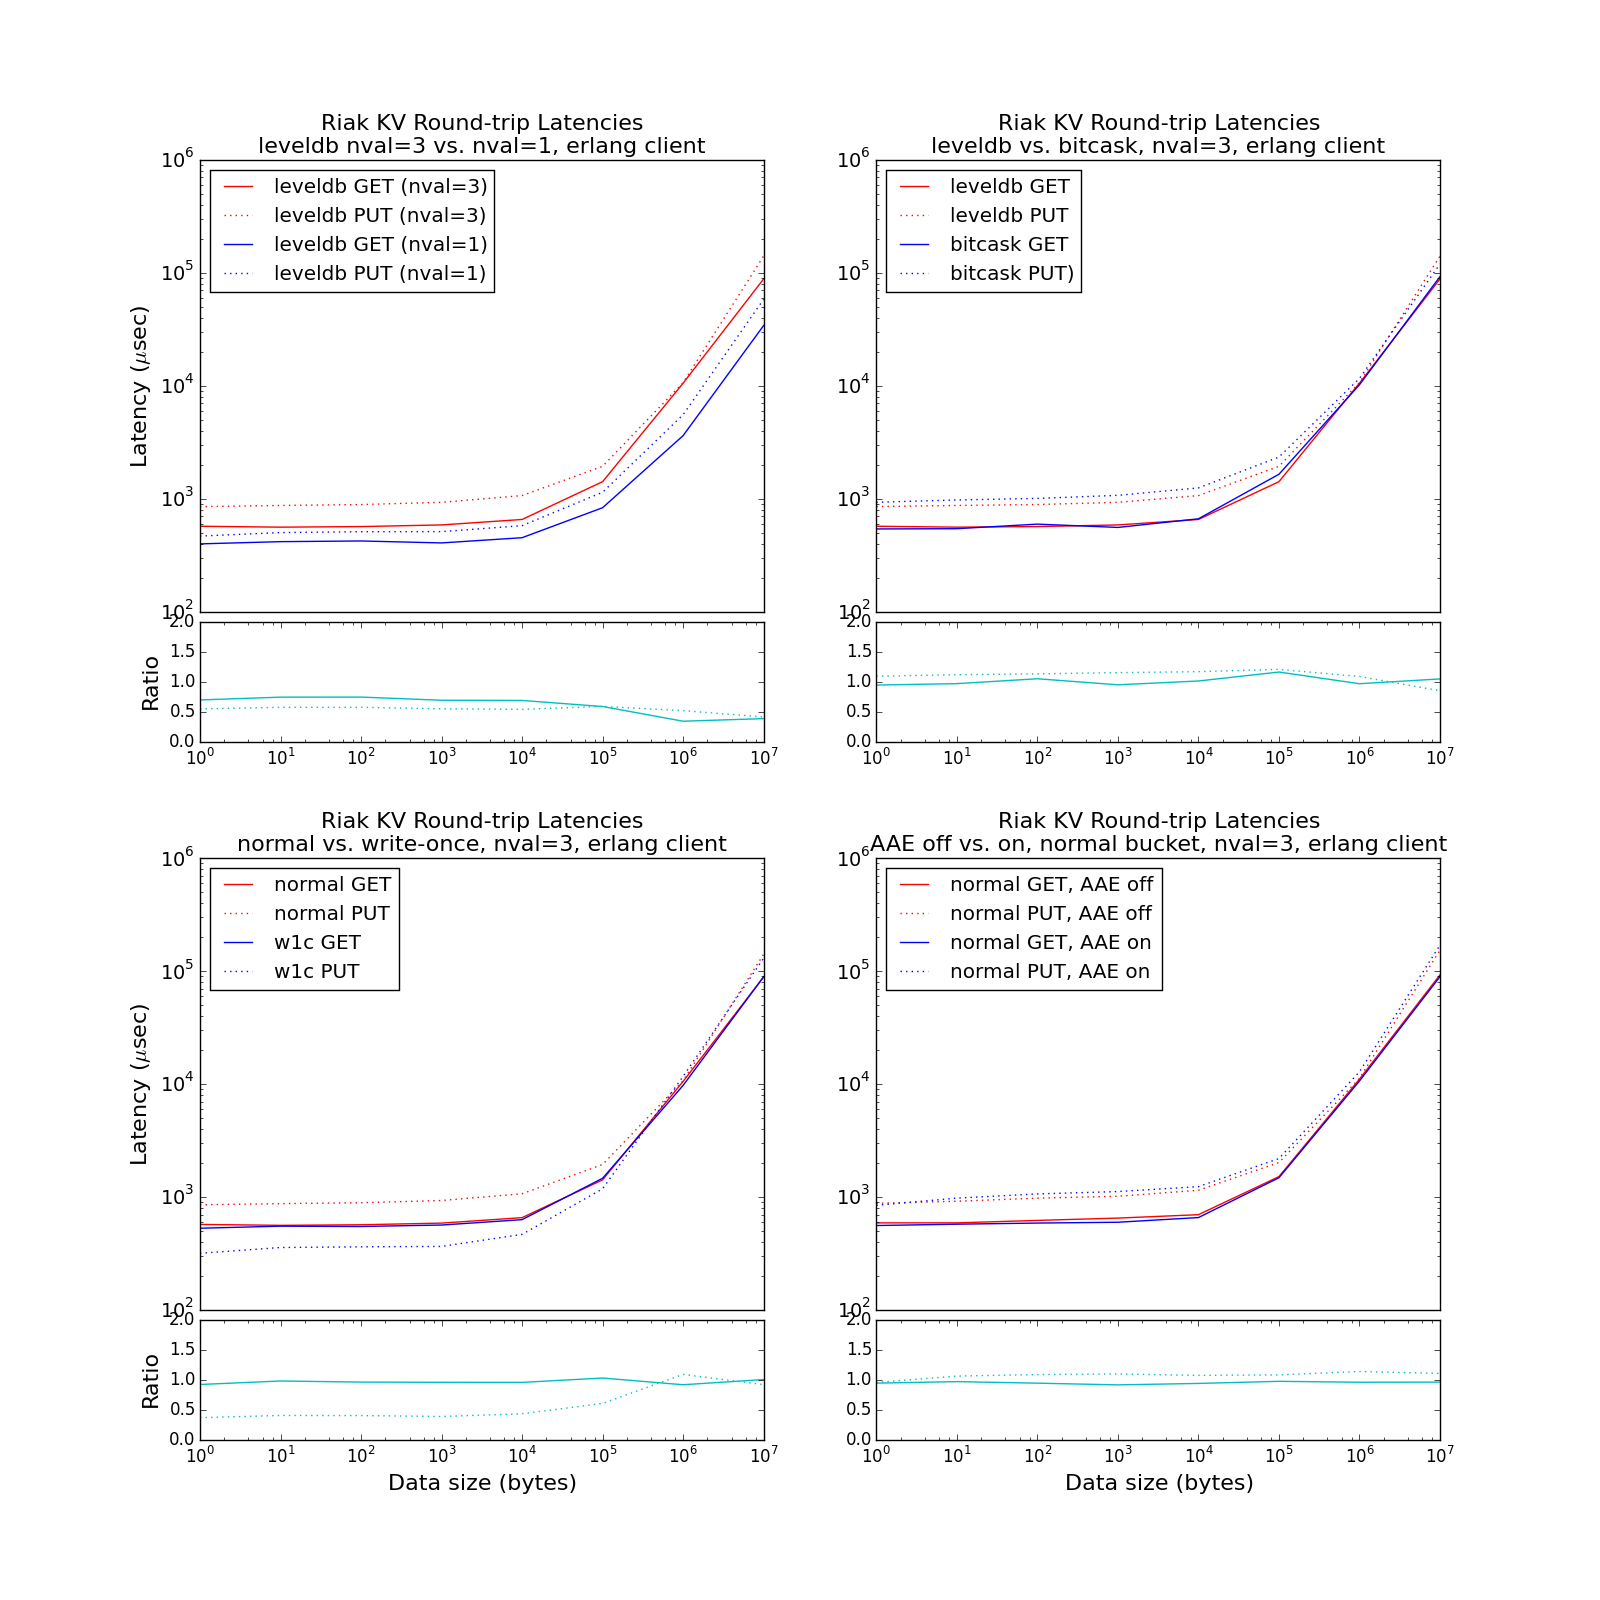
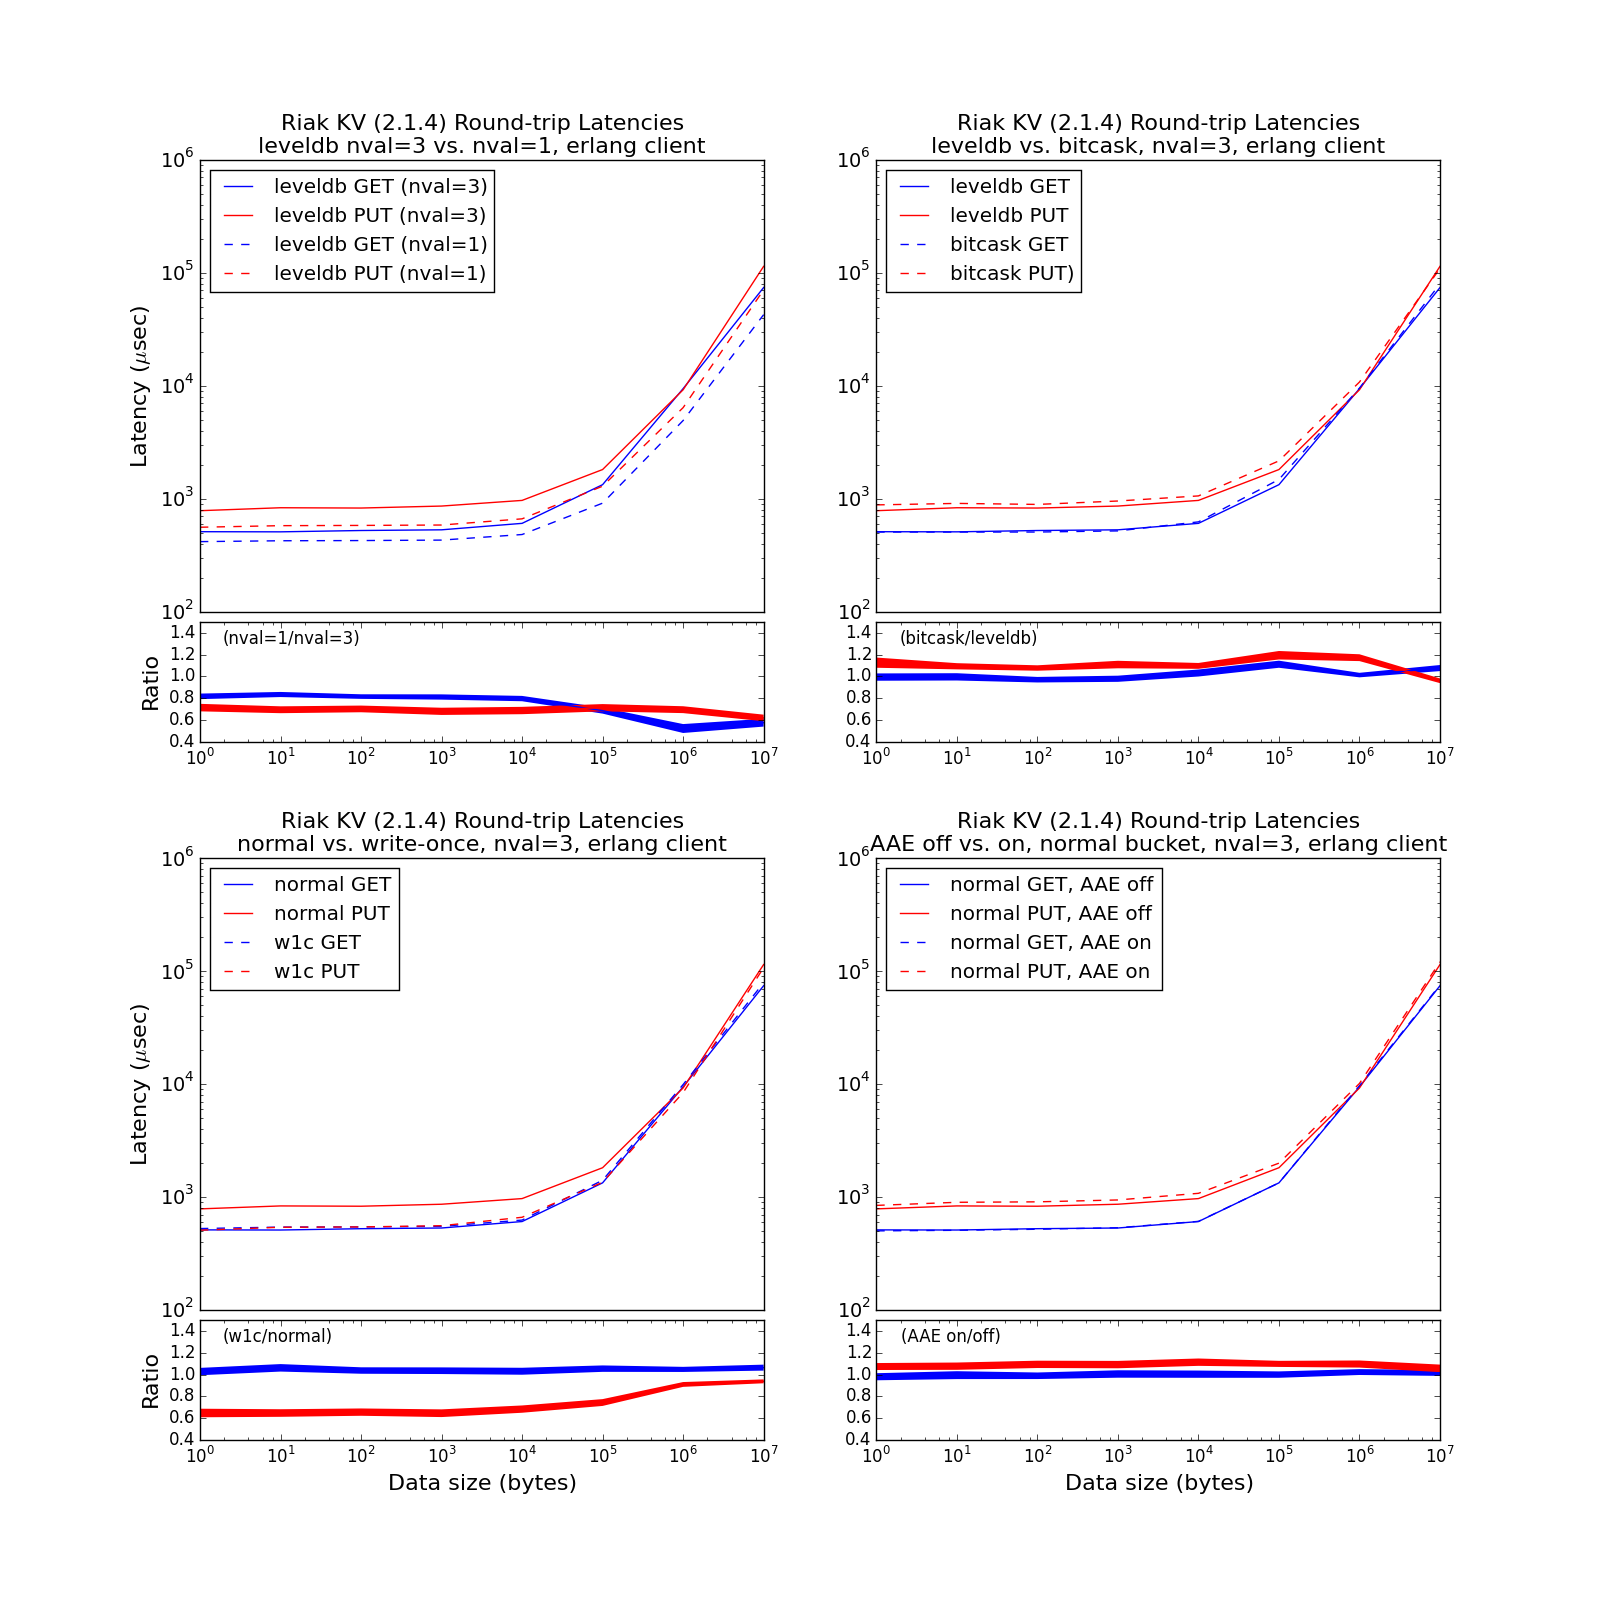
Updating KV latency image for 2.1.4

diff --git a/python_scripts/kvlatency_cmp.py b/python_scripts/kvlatency_cmp.py
@@ -1,8 +1,15 @@
 import numpy as np
+#from matplotlib import rc
+#rc('text', usetex=True)
+#rc('text.latex', preamble='\usepackage{color}')
 import matplotlib.pyplot as plt
 import os
 import profiler_util as pu
 from mpl_toolkits.axes_grid1 import make_axes_locatable
+import sys
+
+getcolor='b'
+putcolor='r'
 
 def getLine(label, content):
   for line in content:
@@ -35,40 +42,56 @@ def parseProfilerOutput(fileName, labelDict):
 
 def getProfilerOutput(fileName):
   d = pu.parseProfilerOutput(fileName, {})
+
   gbytes = []
   pbytes = []
+
   getus = []
+  getus_std = []
+
   putus = []
+  putus_std = []
+
   for key in d.keys():
     s = key.split('_')
     if s[0] == 'put':
       pbytes.append(float(s[1]))
       ntrial = int(s[2])
       putus.append(d[key]['usec']/ntrial)
+      putus_std.append(d[key]['usecstd']/ntrial)
     elif s[0] == 'get':
       gbytes.append(float(s[1]))
       ntrial = int(s[2])
       getus.append(d[key]['usec']/ntrial)
+      getus_std.append(d[key]['usecstd']/ntrial)
 
   npt = np.size(pbytes)
   btes = np.ndarray(npt)
   puts = np.ndarray(npt)
   gets = np.ndarray(npt)
+  puts_std = np.ndarray(npt)
+  gets_std = np.ndarray(npt)
   
   ps = np.argsort(pbytes)
   gs = np.argsort(gbytes)
+
   for i in range(0,np.size(ps)):
     btes[i] = pbytes[ps[i]]
     puts[i] = putus[ps[i]]
     gets[i] = getus[gs[i]]
+    puts_std[i] = putus_std[ps[i]]
+    gets_std[i] = getus_std[gs[i]]
+    if i==0:
+      print 'mean = ' + str(puts[i]) + ' std = ' + str(puts_std[i])
+      print 'mean = ' + str(puts[i]) + ' std = ' + str(puts_std[i])
+      
+  return btes,puts,puts_std,gets,gets_std
 
-  return btes,puts,gets
-
-def makePlot(ax, bytes, puts, gets, color, xlabel=True, ylabel=True):
-  cstr = str(color) + '-'
+def makePlot(ax, bytes, puts, gets, ls, xlabel=True, ylabel=True):
+  cstr = getcolor + ls
   plt.plot(bytes,gets,cstr)
   plt.hold(True)
-  cstr = str(color) + ':'
+  cstr = putcolor + ls
   plt.plot(bytes,puts,cstr)
   ax.set_xscale('log')
   ax.set_yscale('log')
@@ -78,86 +101,135 @@ def makePlot(ax, bytes, puts, gets, color, xlabel=True, ylabel=True):
   if ylabel:
     plt.ylabel('Latency ($\mu$sec)',fontsize=16)
 
-def makeDiffPlot(ax, bytes, p1, g1, p2, g2, color, xlabel=True, ylabel=True):
-  puts = 100*(p2-p1)/p1
-  gets = 100*(g2-g1)/g1
+def makeDiffPlot(ax, bytes, p1, p1_std, g1, g1_std, p2, p2_std, g2, g2_std, ls, xlabel=True, ylabel=True, rat=None):
 
   puts = p2/p1
+  puts_std = pu.getRatioSigma(p1, p1_std, p2, p2_std)
   gets = g2/g1
+  gets_std = pu.getRatioSigma(g1, g1_std, g2, g2_std)
   
-  cstr = str(color) + '-'
+  cstr = getcolor + ls
   ax.plot(bytes,gets,cstr)
+  #  ax.plot(bytes,gets-gets_std,cstr)
   plt.hold(True)
-  cstr = str(color) + ':'
+  #  ax.plot(bytes,gets+gets_std,cstr)
+    
+  cstr = putcolor + ls
   plt.plot(bytes,puts,cstr)
+  #  plt.plot(bytes,puts-puts_std,cstr)
+  #  plt.plot(bytes,puts+puts_std,cstr)
 
   ax.set_xscale('log')
-#  ax.set_ylim([-100, 100])
-  ax.set_ylim([0, 2])
+  ax.set_ylim([0.4, 1.5])
 
+  grey=0.75
+  ax.fill_between(bytes, gets-gets_std, gets+gets_std, color=getcolor,edgecolor='none')
+  ax.fill_between(bytes, puts-puts_std, puts+puts_std, color=putcolor,edgecolor='none')
+  
   if xlabel:
     plt.xlabel('Data size (bytes)',fontsize=16)
   if ylabel:
     plt.ylabel('Ratio',fontsize=16)
 
+  if rat != None:
+    plt.text(2.0, 1.3, '(' + rat + ')')
+
 def retick(ax, size):
   ax.set_xticklabels(ax.get_xticklabels(), fontsize=size)
   ax.set_yticklabels(ax.get_yticklabels(), fontsize=size)
 
-def makePanel(x, p1, g1, p2, g2, sp, leglabels, title, doX, doY):
+def makePanel(x, p1, p1_std, g1, g1_std, p2, p2_std, g2, g2_std, sp, leglabels, title, doX, doY, rat):
   ax = fig.add_subplot(2,2,sp)
   retick(ax, 14)
 
-  makePlot(ax, x, p1, g1, 'r', doX, doY)
-  makePlot(ax, x, p2, g2, 'b', doX, doY)
+  makePlot(ax, x, p1, g1, '-', doX, doY)
+  makePlot(ax, x, p2, g2, '--', doX, doY)
   
   plt.legend(leglabels, loc='upper left')
   plt.title(title, fontsize=16)
 
   divider = make_axes_locatable(ax)
   axdiff  = divider.append_axes("bottom", 1.2, pad=0.1, sharex=ax)
-  makeDiffPlot(axdiff, x, p1, g1, p2, g2, 'c', doX, doY)
+  makeDiffPlot(axdiff, x, p1, p1_std, g1, g1_std, p2, p2_std, g2, g2_std, '-', doX, doY, rat)
 
   return ax
 
+def getOptArgs(args, name, defval):
+    d = {}
+    for arg in args:
+      if '=' in arg:
+        splargs = arg.split('=')
+        d[splargs[0]] = splargs[1]
+
+
+    if name in d.keys():
+      return d[name]
+    else:
+      return defval
+
 dataDir = str(os.environ['RIAK_TEST_BASE']) + '/data/'
 
-filesn1 = pu.getCmd('ls ' + dataDir + '/kvlatency_nval1_iter*.txt').replace('\n', ' ')
-bytes1, puts1, gets1 = getProfilerOutput(filesn1)
+usersuffix = getOptArgs(sys.argv, 'suffix', '')
+if usersuffix != '':
+  suffix = usersuffix + '_'
+else:
+  suffix = ''
 
-filesn3 = pu.getCmd('ls ' + dataDir + '/kvlatency_nval3_iter*.txt').replace('\n', ' ')
-bytes3, puts3, gets3 = getProfilerOutput(filesn3)
+print 'Using suffix = ' + str(suffix)
 
-filesw1c = pu.getCmd('ls ' + dataDir + '/kvlatency_nval3_w1c_iter*.txt').replace('\n', ' ')
-bytesw1c3, putsw1c3, getsw1c3 = getProfilerOutput(filesw1c)
+filesn1 = pu.getCmd('ls ' + dataDir + '/kvlatency_nval1_' + suffix + 'iter*.txt').replace('\n', ' ')
+bytes1, puts1, puts1_std, gets1, gets1_std = getProfilerOutput(filesn1)
 
-filesbc = pu.getCmd('ls ' + dataDir + '/kvlatency_nval3_bitcask_iter*.txt').replace('\n', ' ')
-bytesb3, putsb3, getsb3 = getProfilerOutput(filesbc)
+filesn3 = pu.getCmd('ls ' + dataDir + '/kvlatency_nval3_' + suffix + 'iter*.txt').replace('\n', ' ')
+bytes3, puts3, puts3_std, gets3, gets3_std = getProfilerOutput(filesn3)
 
-filesoff = pu.getCmd('ls ' + dataDir + '/kvlatency_nval3_aae_passive_iter*.txt').replace('\n', ' ')
-bytesaaeoff, putsaaeoff, getsaaeoff = getProfilerOutput(filesoff)
+filesw1c = pu.getCmd('ls ' + dataDir + '/kvlatency_nval3_w1c_' + suffix + 'iter*.txt').replace('\n', ' ')
+bytesw1c3, putsw1c3, putsw1c3_std, getsw1c3, getsw1c3_std = getProfilerOutput(filesw1c)
 
-fileson  = pu.getCmd('ls ' + dataDir + '/kvlatency_nval3_aae_active_iter*.txt').replace('\n', ' ')
-bytesaaeon,  putsaaeon,  getsaaeon  = getProfilerOutput(fileson)
+filesbc = pu.getCmd('ls ' + dataDir + '/kvlatency_nval3_bitcask_' + suffix + 'iter*.txt').replace('\n', ' ')
+bytesb3, putsb3, putsb3_std, getsb3, getsb3_std = getProfilerOutput(filesbc)
+
+#filesoff = pu.getCmd('ls ' + dataDir + '/kvlatency_nval3_aae_passive_' + suffix + 'iter*.txt').replace('\n', ' ')
+#bytesaaeoff, putsaaeoff, putsaaeoff_std, getsaaeoff, getsaaeoff_std = getProfilerOutput(filesoff)
+
+fileson  = pu.getCmd('ls ' + dataDir + '/kvlatency_nval3_aae_active_' + suffix + 'iter*.txt').replace('\n', ' ')
+bytesaaeon,  putsaaeon, putsaaeon_std, getsaaeon, getsaaeon_std  = getProfilerOutput(fileson)
 
 fig = plt.figure(figsize=(16,16))
 fig.set_facecolor('white');
 
+print 'Here 0'
+
 leg = ['leveldb GET (nval=3)', 'leveldb PUT (nval=3)', 'leveldb GET (nval=1)', 'leveldb PUT (nval=1)']
-title = 'Riak KV Round-trip Latencies\nleveldb nval=3 vs. nval=1, erlang client'
-ax = makePanel(bytes1, puts3, gets3, puts1, gets1, 1, leg, title, False, True)
-  
+if suffix != '':
+  suffixstr=' (' + usersuffix + ') '
+else:
+  suffixstr=' '
+
+title = 'Riak KV' + suffixstr + 'Round-trip Latencies\nleveldb nval=3 vs. nval=1, erlang client'
+rat='nval=1/nval=3'
+ax = makePanel(bytes1, puts3, puts3_std, gets3, gets3_std, puts1, puts1_std, gets1, gets1_std, 1, leg, title, False, True, rat)
+
+print 'Here 1'
+
 leg = ['leveldb GET', 'leveldb PUT', 'bitcask GET', 'bitcask PUT)']
-title = 'Riak KV Round-trip Latencies\nleveldb vs. bitcask, nval=3, erlang client'
-ax = makePanel(bytes3, puts3, gets3, putsb3, getsb3, 2, leg, title, False, False)
-    
+title = 'Riak KV' + suffixstr + 'Round-trip Latencies\nleveldb vs. bitcask, nval=3, erlang client'
+rat='bitcask/leveldb'
+ax = makePanel(bytes3, puts3, puts3_std, gets3, gets3_std, putsb3, putsb3_std, getsb3, getsb3_std, 2, leg, title, False, False, rat)
+
+print 'Here 2'
+
 leg = ['normal GET', 'normal PUT', 'w1c GET', 'w1c PUT']
-title = 'Riak KV Round-trip Latencies\nnormal vs. write-once, nval=3, erlang client'
-ax = makePanel(bytes3, puts3, gets3, putsw1c3, getsw1c3, 3, leg, title, True, True)
-  
+title = 'Riak KV' + suffixstr + 'Round-trip Latencies\nnormal vs. write-once, nval=3, erlang client'
+rat='w1c/normal'
+ax = makePanel(bytes3, puts3, puts3_std, gets3, gets3_std, putsw1c3, putsw1c3_std, getsw1c3, getsw1c3_std, 3, leg, title, True, True, rat)
+
+print 'Here 3'
+
 leg = ['normal GET, AAE off', 'normal PUT, AAE off', 'normal GET, AAE on', 'normal PUT, AAE on']
-title = 'Riak KV Round-trip Latencies\nAAE off vs. on, normal bucket, nval=3, erlang client'
-ax = makePanel(bytesaaeoff, putsaaeoff, getsaaeoff, putsaaeon, getsaaeon, 4, leg, title, True, False)
+title = 'Riak KV' + suffixstr + 'Round-trip Latencies\nAAE off vs. on, normal bucket, nval=3, erlang client'
+rat='AAE on/off'
+ax = makePanel(bytes3, puts3, puts3_std, gets3, gets3_std, putsaaeon, putsaaeon_std, getsaaeon, getsaaeon_std, 4, leg, title, True, False, rat)
   
 fig.savefig('kvlatency_cmp.png')
 plt.show()
